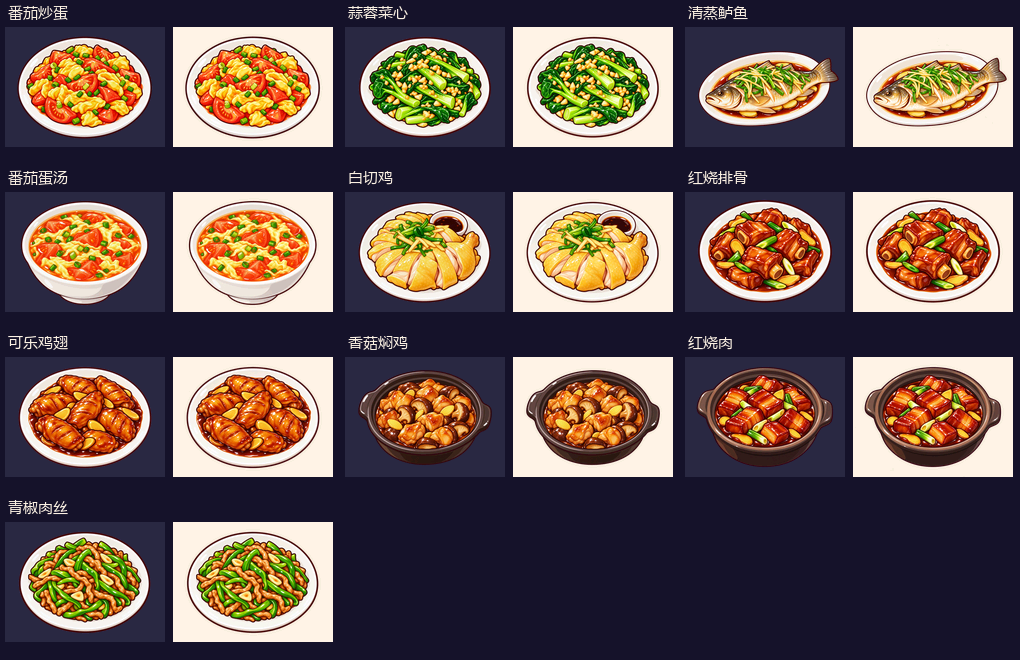
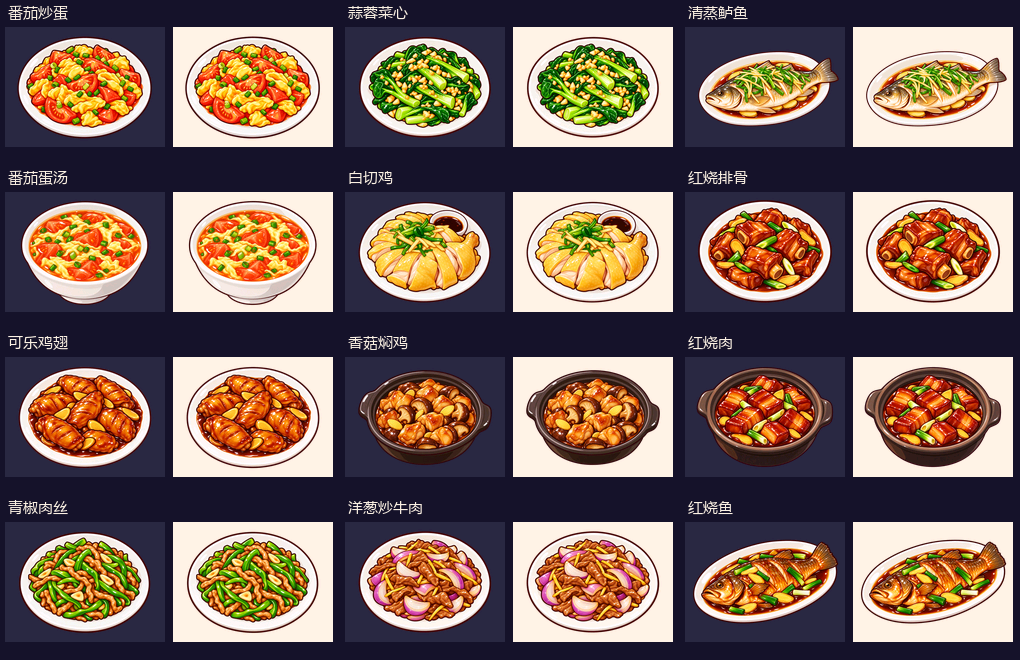
art: add eight classic dishes and refine review previews

Changed region(s): [[0.3343, 0.7576, 1.0, 0.9697], [0.6686, 0.7576, 0.7294, 0.7879]]

diff --git a/game-art/kitchen/dish-hero/batches/2026-10-29/delivery.py b/game-art/kitchen/dish-hero/batches/2026-10-29/delivery.py
@@ -94,21 +94,27 @@ def ingest(ident, original):
 def sheets():
     value = json.loads(QUEUE.read_text(encoding="utf-8"))
     items = [x for x in value["items"] if x["status"] == "review"]
-    font = ImageFont.truetype("C:/Windows/Fonts/msyh.ttc", 15)
+    font = None
+    for candidate in ["C:/Windows/Fonts/msyh.ttc", "/System/Library/Fonts/PingFang.ttc", "/usr/share/fonts/opentype/noto/NotoSansCJK-Regular.ttc"]:
+        if Path(candidate).is_file():
+            font = ImageFont.truetype(candidate, 15)
+            break
+    if font is None:
+        font = ImageFont.load_default(size=13)
     for page in range((len(items) + 11) // 12):
         part = items[page * 12: (page + 1) * 12]
         sheet = Image.new("RGB", (1020, 660), "#15122A")
         draw = ImageDraw.Draw(sheet)
         for index, item in enumerate(part):
             x, y = (index % 3) * 340, (index // 3) * 165
-            draw.text((x + 8, y + 2), item["name"], fill="#FBF1E3", font=font)
+            draw.text((x + 8, y + 2), item["name"] if font.size == 15 else item["recipe_id"], fill="#FBF1E3", font=font)
             small = Image.open(HERO / (item["id"] + ".png")).resize((160, 120), Image.Resampling.LANCZOS)
             for side, bg in enumerate(["#2C2845", "#FBF1E3"]):
                 card = Image.new("RGBA", (160, 120), bg)
                 card.alpha_composite(small)
                 rgb = card.convert("RGB")
-                # True RGB565 rounding for preview, independently of delivery alpha.
-                rgb = Image.merge("RGB", [rgb.getchannel(c).point(lambda v, b=b: round(round(v * ((1 << b) - 1) / 255) * 255 / ((1 << b) - 1))) for c, b in [("R", 5), ("G", 6), ("B", 5)]])
+                # Match asset_codec.rgb565 bit truncation and expand565 exactly.
+                rgb = Image.merge("RGB", [rgb.getchannel(c).point(lambda v, b=b: ((v >> (8 - b)) * 255 + ((1 << b) - 1) // 2) // ((1 << b) - 1)) for c, b in [("R", 5), ("G", 6), ("B", 5)]])
                 sheet.paste(rgb, (x + 5 + side * 168, y + 27))
         sheet.save(BATCH / ("review-%02d.png" % (page + 1)))
     print(json.dumps({"delivered": len(items), "remaining": len(value["items"]) - len(items), "sheets": (len(items) + 11) // 12}))
